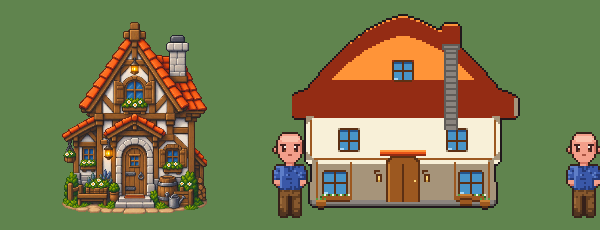
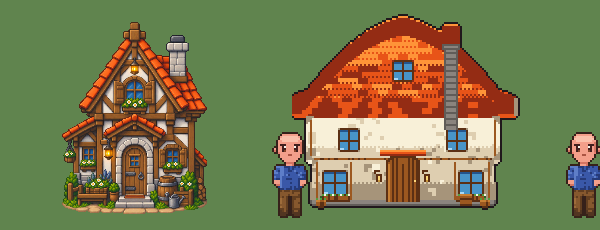
질감을 재질별 구조로 — 노이즈가 아니라 기와·회벽·나무결
픽셀 하나씩 무작위로 찍으니 TV 노이즈처럼 보였다 (「딱딱 도트 찍은 느낌」).
진짜 재질은 덩어리와 결이 있다. 핵심은 **좌표를 묶는 것** —
hash(x, y)는 점이 되고 hash(x>>2, y>>2)는 덩어리가 된다.

- 기와: 5x3 한 장씩 벽돌처럼 엇갈려 쌓고 장마다 색을 달리한다.
  이음매는 한 칸 걸러 — 통줄로 그으면 골판지처럼 보인다
- 회벽: 4x4 뭉텅이 위에 2x2 얼룩을 겹쳐 미장 자국처럼
- 목재: 세로로 긴 결 (한 열이 위아래로 이어진다)
- 톤 경계의 바둑판 띠는 뺐다. 얼룩이 경계를 알아서 흐려 주는데
  그 위에 규칙적인 격자까지 얹으면 그것만 눈에 띈다

--rough= 로 세기를 조절한다 (기본 0.20)

diff --git a/game/assets/ref/make_buildings.js b/game/assets/ref/make_buildings.js
@@ -124,7 +124,9 @@ const BAYER = [[0.0, 0.5], [0.75, 0.25]];
 // 처음엔 위아래 그러데이션 전체에 디더를 깔았는데 온 벽이 격자무늬가 되어
 // 기계처럼 보였다. 옛 게임 그림도 디더는 **아껴** 썼다 — 넓은 면은 한 색으로
 // 시원하게 두고, 두 색이 만나는 두어 줄만 섞어 단차를 부드럽게 했다.
-const BAND = STYLE === 'soft' ? 2 : 0;   // 섞는 띠 두께 (칸)
+// 톤 경계의 바둑판 띠는 안 쓴다. 재질 얼룩(wallPatches)이 경계를 알아서
+// 흐려 주는데 그 위에 규칙적인 격자까지 얹으면 그것만 눈에 띈다.
+const BAND = 0;
 
 function ditherFace(g, tones, y0, y1) {
   let [lite, base, dark] = tones;
@@ -144,9 +146,69 @@ function ditherFace(g, tones, y0, y1) {
   }
 }
 
+// 면을 갈라 놓은 위에 **재질**을 얹는다.
+//
+// 픽셀 하나씩 무작위로 찍었더니 TV 노이즈처럼 보였다 — 「딱딱 도트 찍은 느낌」.
+// 진짜 재질은 **덩어리와 결**이 있다. 그래서 재료마다 구조를 준다:
+//
+//   기와  한 장씩 벽돌처럼 엇갈려 쌓고, 장마다 색을 조금씩 달리한다
+//   회벽  두세 칸짜리 뭉텅이로 얼룩진다 (미장 자국)
+//   목재  세로로 긴 결이 지나간다
+//
+// 핵심은 **좌표를 묶는 것**이다. hash(x, y)는 점이 되고,
+// hash(x>>2, y>>1)은 덩어리가 된다.
+const ROUGH = parseFloat((process.argv.find(a => a.startsWith('--rough=')) || '').slice(8))
+  || 0.20;
+
+// 기와 — 4x2 한 장씩, 한 줄 걸러 반 장씩 밀어 쌓는다
+function roofTiles(g, top, base) {
+  const TW = 5, TH = 3;
+  for (let y = top; y <= base; y++) {
+    const row = Math.floor((y - top) / TH);
+    const shift = (row % 2) ? TW / 2 : 0;
+    for (let x = 0; x < GW; x++) {
+      const c = g.d[y][x];
+      if (!'lrR'.includes(c)) continue;
+      const col = Math.floor((x + shift) / TW);
+      const r = hash(col, row);
+      if (r < ROUGH && DARKEN[c]) g.px(x, y, DARKEN[c]);
+      else if (r < ROUGH * 1.8 && LIGHTEN[c]) g.px(x, y, LIGHTEN[c]);
+      // 장 아랫줄에 이음매 — **한 칸 걸러** 찍는다. 통줄로 그으면
+      // 가로줄무늬가 지붕을 지배해서 기와가 아니라 골판지처럼 보인다.
+      if ((y - top) % TH === TH - 1 && (x + row) % 2 === 0 && DARKEN[c])
+        g.px(x, y, DARKEN[c]);
+    }
+  }
+}
+
+// 회벽 — 두세 칸짜리 뭉텅이. 큰 얼룩 위에 작은 얼룩을 겹쳐 자연스럽게.
+function wallPatches(g, y0, y1) {
+  for (let y = y0; y <= y1; y++) for (let x = 0; x < GW; x++) {
+    const c = g.d[y][x];
+    if (!'xwW'.includes(c)) continue;
+    const big = hash(x >> 2, y >> 2);          // 4x4 뭉텅이
+    const small = hash(x >> 1, y >> 1);        // 2x2 얼룩
+    const v = big * 0.65 + small * 0.35;
+    if (v < ROUGH && DARKEN[c]) g.px(x, y, DARKEN[c]);
+    else if (v > 1.0 - ROUGH * 0.8 && LIGHTEN[c]) g.px(x, y, LIGHTEN[c]);
+  }
+}
+
+// 목재 — 세로로 긴 결 (한 열이 위아래로 쭉 이어진다)
+function woodGrain(g) {
+  for (let y = 0; y < GH; y++) for (let x = 0; x < GW; x++) {
+    const c = g.d[y][x];
+    if (!'utT'.includes(c)) continue;
+    if (hash(x, 0) < 0.30 && DARKEN[c]) g.px(x, y, DARKEN[c]);
+  }
+}
+
 function roughen(g) {
   ditherFace(g, ['l', 'r', 'R'], RIDGE, EAVE);          // 지붕
   ditherFace(g, ['x', 'w', 'W'], EAVE, GROUND);         // 벽
+  roofTiles(g, RIDGE, EAVE);
+  wallPatches(g, EAVE, GROUND);
+  woodGrain(g);
 }
 
 
